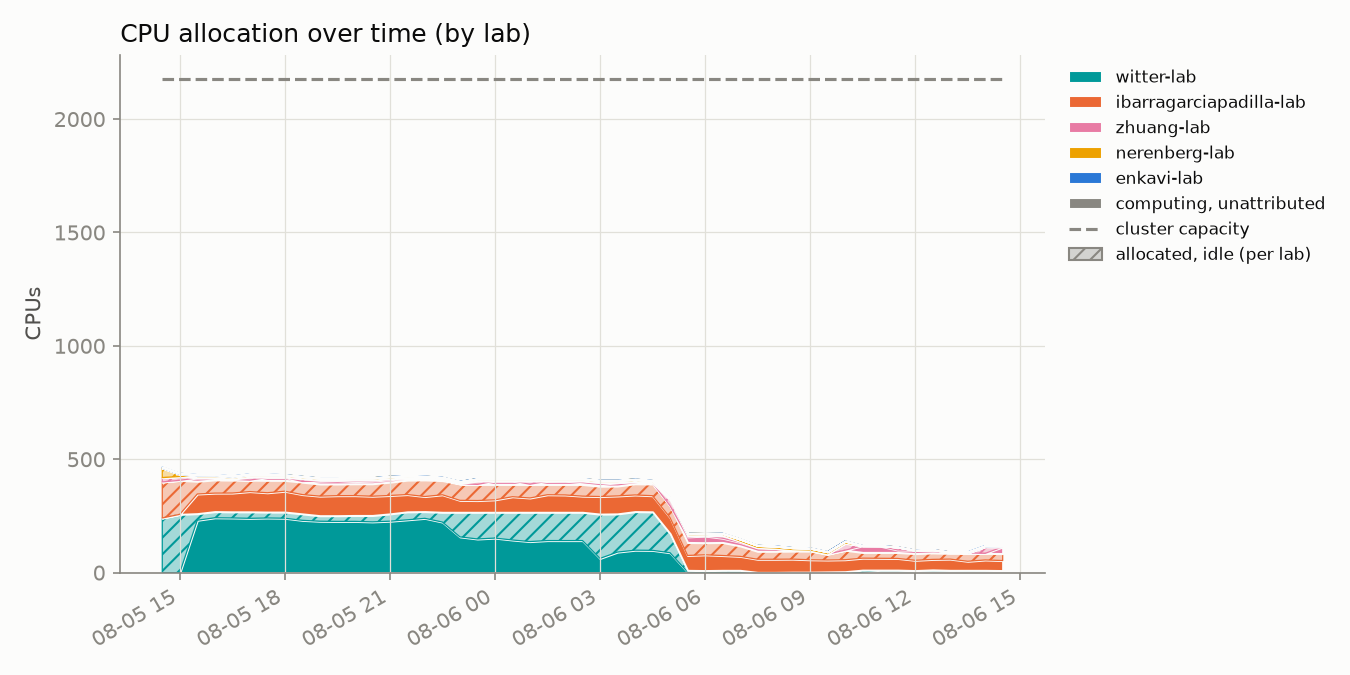
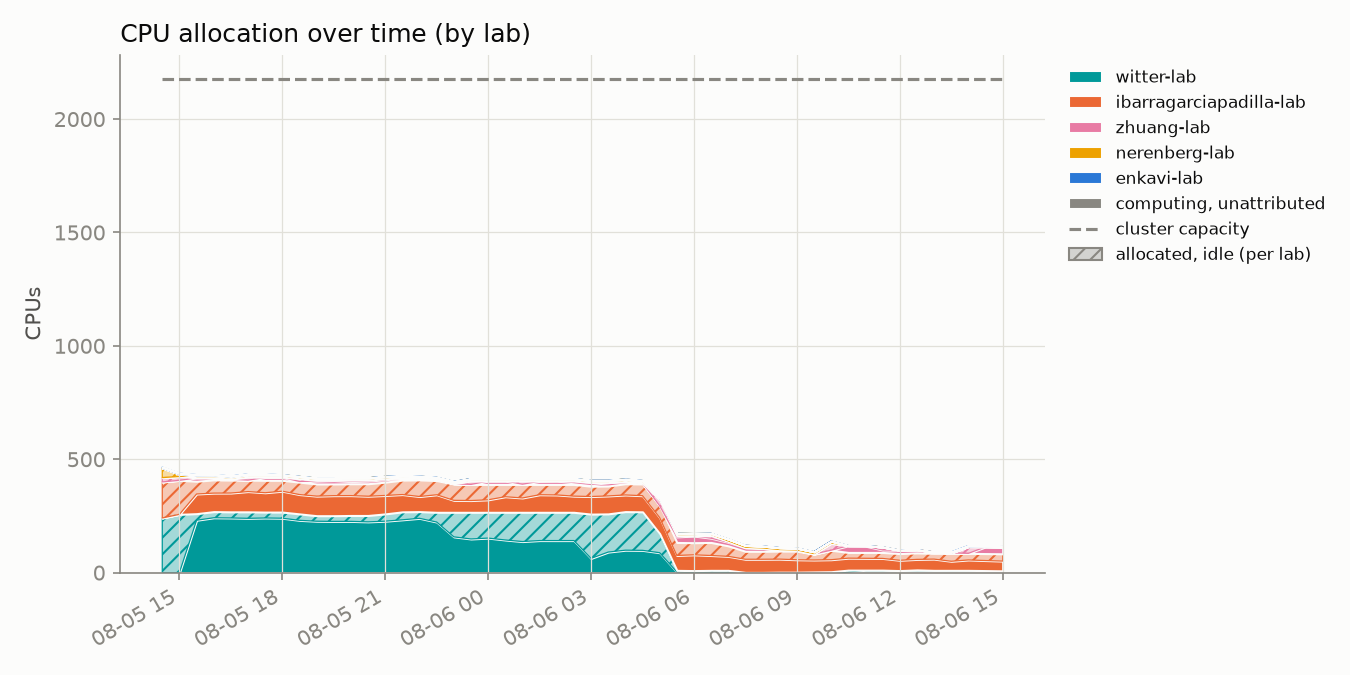
update 2026-08-06T15:00:01-07:00

diff --git a/README.md b/README.md
@@ -2,8 +2,8 @@
 
 Automated GPU/CPU/queue utilization tracker for `hopper.cluster`, updated every 30 minutes by cron. Usernames are anonymized to a stable per-account pseudonym; lab names are real.
 
-Last updated: 2026-08-06T14:57:30-07:00
-Samples: 49 queue snapshots, 49 GPU snapshots
+Last updated: 2026-08-06T15:00:19-07:00
+Samples: 50 queue snapshots, 50 GPU snapshots
 
 ## Resources
 
@@ -16,22 +16,22 @@ Samples: 49 queue snapshots, 49 GPU snapshots
 
 ## Headline
 
-- **67.6%** of the cluster's 60 GPUs allocated, averaged across all samples
-- **41.1%** average `nvidia-smi` utilization *when* a GPU is allocated to a job
-- **82.4%** average cgroup CPU utilization *when* a CPU is allocated to a job
+- **67.5%** of the cluster's 60 GPUs allocated, averaged across all samples
+- **41.6%** average `nvidia-smi` utilization *when* a GPU is allocated to a job
+- **82.6%** average cgroup CPU utilization *when* a CPU is allocated to a job
 
 ## Per lab / per user
 
 <table>
 <tr><th>Lab</th><th>User</th><th align='right'>GPU-hours allocated</th><th align='right'>CPU-hours allocated</th><th align='right'>GPU utilization</th></tr>
 <tr style='background-color:#d8efef'><td>witter-lab</td><td>user-d58f5a15</td><td align='right'>467.5</td><td align='right'>3740.0</td><td align='right'>9%</td></tr>
-<tr style='background-color:#fbebf1'><td>zhuang-lab</td><td>user-0db9ced0</td><td align='right'>377.0</td><td align='right'>377.0</td><td align='right'>49%</td></tr>
-<tr style='background-color:#d8efef'><td>witter-lab</td><td>user-554c620c</td><td align='right'>108.5</td><td align='right'>221.5</td><td align='right'>68%</td></tr>
+<tr style='background-color:#fbebf1'><td>zhuang-lab</td><td>user-0db9ced0</td><td align='right'>392.0</td><td align='right'>392.0</td><td align='right'>50%</td></tr>
+<tr style='background-color:#d8efef'><td>witter-lab</td><td>user-554c620c</td><td align='right'>112.5</td><td align='right'>225.5</td><td align='right'>68%</td></tr>
 <tr style='background-color:#fcf0d8'><td>nerenberg-lab</td><td>user-6bb5f332</td><td align='right'>40.0</td><td align='right'>200.0</td><td align='right'>71%</td></tr>
-<tr style='background-color:#fce8e0'><td>ibarragarciapadilla-lab</td><td>user-3cfc41a3</td><td align='right'>0.0</td><td align='right'>2625.0</td><td align='right'>—</td></tr>
-<tr style='background-color:#dfeaf8'><td>enkavi-lab</td><td>user-c21bdaa4</td><td align='right'>0.0</td><td align='right'>20.0</td><td align='right'>—</td></tr>
-<tr style='background-color:#fcf0d8'><td>nerenberg-lab</td><td>user-b12dc074</td><td align='right'>0.0</td><td align='right'>16.0</td><td align='right'>—</td></tr>
+<tr style='background-color:#dfeaf8'><td>enkavi-lab</td><td>user-c21bdaa4</td><td align='right'>0.0</td><td align='right'>22.0</td><td align='right'>—</td></tr>
 <tr style='background-color:#fce8e0'><td>ibarragarciapadilla-lab</td><td>user-eec7ffae</td><td align='right'>0.0</td><td align='right'>234.5</td><td align='right'>—</td></tr>
+<tr style='background-color:#fce8e0'><td>ibarragarciapadilla-lab</td><td>user-3cfc41a3</td><td align='right'>0.0</td><td align='right'>2662.5</td><td align='right'>—</td></tr>
+<tr style='background-color:#fcf0d8'><td>nerenberg-lab</td><td>user-b12dc074</td><td align='right'>0.0</td><td align='right'>16.0</td><td align='right'>—</td></tr>
 </table>
 
 ## Usage over time
@@ -42,7 +42,7 @@ Samples: 49 queue snapshots, 49 GPU snapshots
 
 Solid = utilized by lab, hatched = allocated but idle, gray = usage not traceable to a lab, dashed line = cluster capacity.
 
-Attribution combines `nvidia-smi`'s process listing with Slurm's GPU-to-job binding record; the latter caught **1508** readings the former missed.
+Attribution combines `nvidia-smi`'s process listing with Slurm's GPU-to-job binding record; the latter caught **1536** readings the former missed.
 
 ## Queue
 
@@ -54,13 +54,13 @@ Attribution combines `nvidia-smi`'s process listing with Slurm's GPU-to-job bind
 
 ![CPU usage vs GPU usage, decayed](assets/cpu_gpu_usage.png)
 
-One point per user per snapshot (n=273), usage decayed on Slurm's ~7-day fairshare half-life.
+One point per user per snapshot (n=277), usage decayed on Slurm's ~7-day fairshare half-life.
 
 **GPU usage doesn't count toward priority on this cluster** (`TRESBillingWeights`/`PriorityWeightTRES` unset) - watch the **upper-left**: low CPU usage (high priority) with high GPU usage.
 
 ## Recommendations
 
-1. **Weight GPU usage in fairshare.** `TRESBillingWeights` and `PriorityWeightTRES` are both unset right now, so Slurm's fairshare score only sees CPU-seconds - a job holding 4 idle L40S GPUs costs nothing in priority as long as it isn't also holding CPUs. That's the exact failure mode the scatter above is built to catch (upper-left: low CPU usage, high GPU usage). Fix: `scontrol update partition=main TRESBillingWeights=CPU=1.0,GRES/gpu=<weight>` (or set `PriorityWeightTRES` cluster-wide), then `scontrol reconfigure` - a full `slurmctld` restart also works but drops in-flight priority state. A reasonable starting point for `<weight>` is the CPUs-per-GPU ratio on a GPU node (128 CPUs / 4 GPUs = 32), so one GPU costs as much fairshare as the CPU share it displaces; tune from there against next week's headline numbers (67.6% allocated, 41.1% utilized when allocated, as of this snapshot). The weight value itself is a policy call - loop in whoever owns cluster allocation policy before changing it.
+1. **Weight GPU usage in fairshare.** `TRESBillingWeights` and `PriorityWeightTRES` are both unset right now, so Slurm's fairshare score only sees CPU-seconds - a job holding 4 idle L40S GPUs costs nothing in priority as long as it isn't also holding CPUs. That's the exact failure mode the scatter above is built to catch (upper-left: low CPU usage, high GPU usage). Fix: `scontrol update partition=main TRESBillingWeights=CPU=1.0,GRES/gpu=<weight>` (or set `PriorityWeightTRES` cluster-wide), then `scontrol reconfigure` - a full `slurmctld` restart also works but drops in-flight priority state. A reasonable starting point for `<weight>` is the CPUs-per-GPU ratio on a GPU node (128 CPUs / 4 GPUs = 32), so one GPU costs as much fairshare as the CPU share it displaces; tune from there against next week's headline numbers (67.5% allocated, 41.6% utilized when allocated, as of this snapshot). The weight value itself is a policy call - loop in whoever owns cluster allocation policy before changing it.
 
 2. **Escalate on sustained low utilization** (see table and scatter above). Right now the clearest candidate is `user-d58f5a15` in `witter-lab`: 467.5 GPU-hours allocated at 9% average utilization, i.e. roughly 424 GPU-hours that sat idle instead of going to someone in the queue. Turning that into an automated escalation needs two decisions made up front: a utilization threshold (something like under 20% mean utilization over at least 50 allocated GPU-hours is a defensible starting bar - loose enough to skip short debugging runs, tight enough to catch parked allocations) and a grace period (how many consecutive low-utilization snapshots before it counts as "sustained" rather than a momentary lull between batches). Once those are set, the mechanism can be either soft (a bot that reads `data/gpu_samples.jsonl` and reminds the user/lab by email or Slack) or hard (a Slurm-side QOS penalty, e.g. `sacctmgr modify qos <qos> set Priority-=<n>`, applied after N consecutive offending snapshots). Neither exists yet - today the table and scatter above are a read-only signal, not an enforced policy.
 
